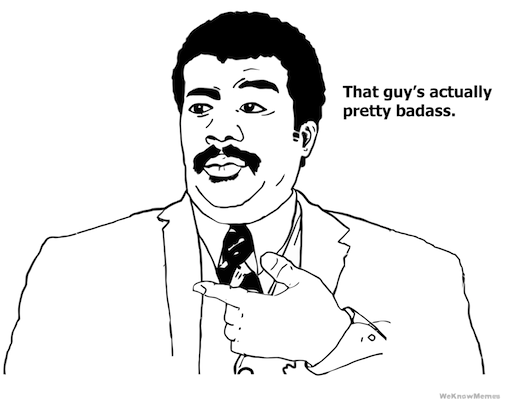
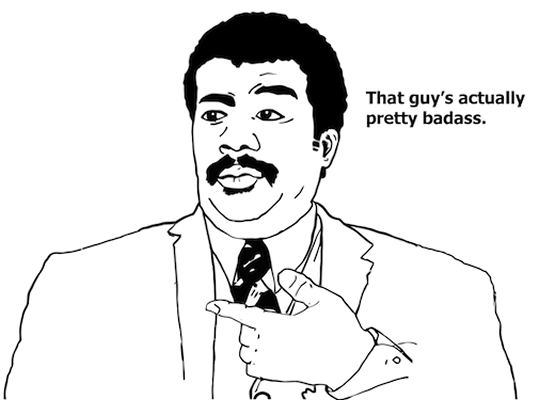
meme scaled correctly now

diff --git a/Controllers/DisplayViewController.m b/Controllers/DisplayViewController.m
@@ -126,9 +126,13 @@
         NSString* imageName = [[[NSBundle mainBundle] bundlePath] stringByAppendingPathComponent:meme[@"file"]];
         UIImage* sourceImage = [UIImage imageWithContentsOfFile:imageName];
         
-        NSInteger border = 20;
+        // we need to add a border on top and bottom of the image, so the entire meme can be displayed correctly in imessages
         CGSize size = [sourceImage size];
-        CGSize actualSize = CGSizeMake(size.width + 2*border, size.height + 2*border);
+        NSInteger borderTop = 40;
+        NSInteger borderBottom = 100;
+        NSInteger borderRight = 0.2*size.width;
+        NSInteger borderLeft = 0.02*size.width;
+        CGSize actualSize = CGSizeMake(size.width + borderLeft + borderRight, size.height + borderTop + borderBottom);
         
         UIGraphicsBeginImageContext(actualSize);
         CGContextRef context = UIGraphicsGetCurrentContext();
@@ -144,7 +148,7 @@
         CGRect backgroundRect = CGRectMake(0, 0, actualSize.width, actualSize.height);
         CGContextFillRect(context, backgroundRect);
         
-        CGRect imageRect = CGRectMake(border, border, size.width, size.height);
+        CGRect imageRect = CGRectMake(borderLeft, borderTop, size.width, size.height);
         [sourceImage drawInRect:imageRect blendMode:kCGBlendModeNormal alpha:1.0];
         
         UIImage *finalImage =  UIGraphicsGetImageFromCurrentImageContext();
